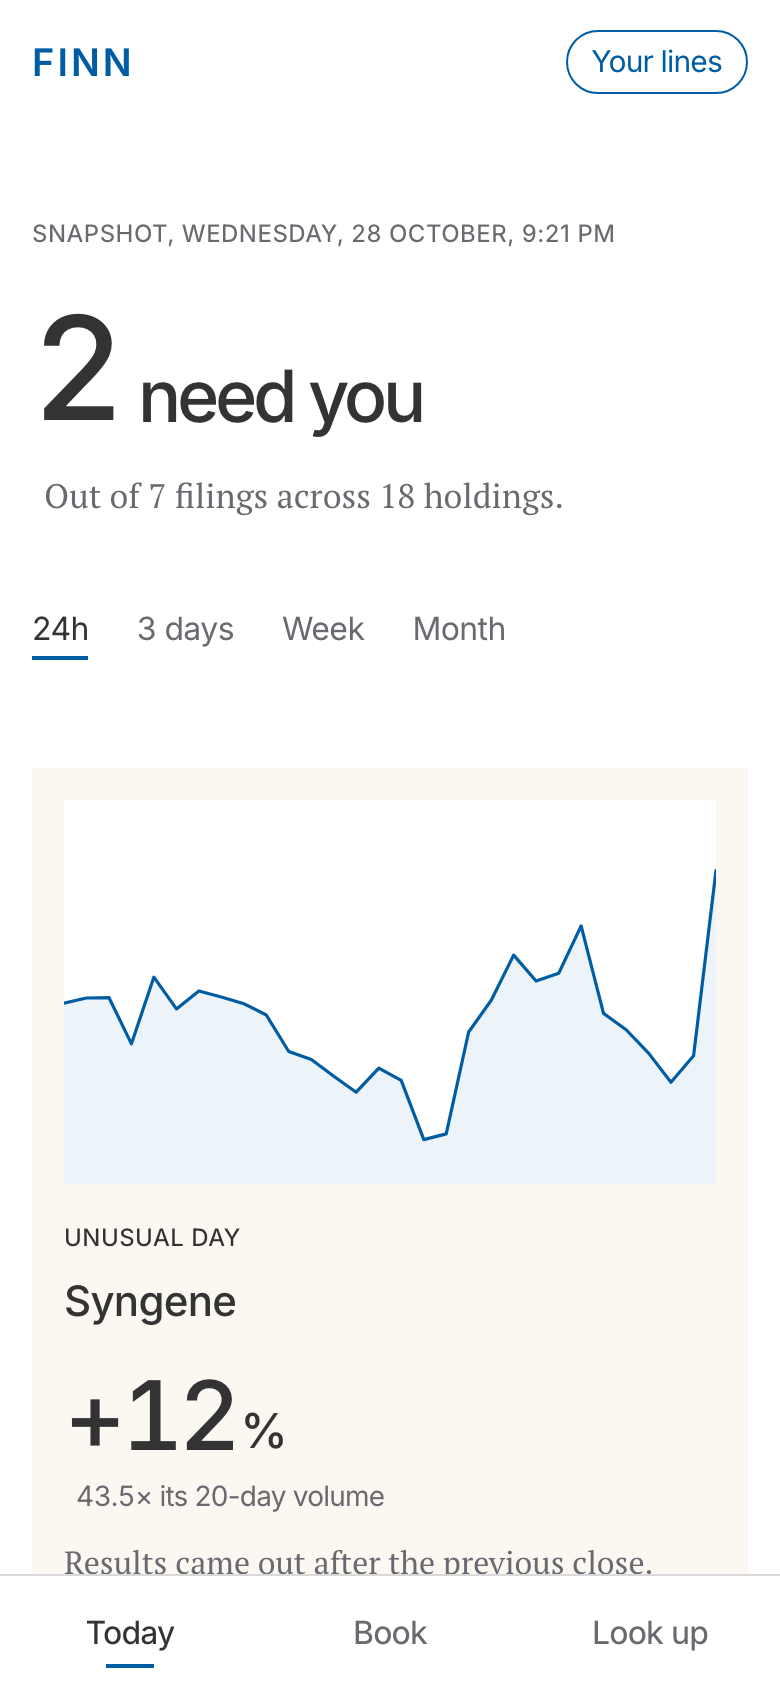
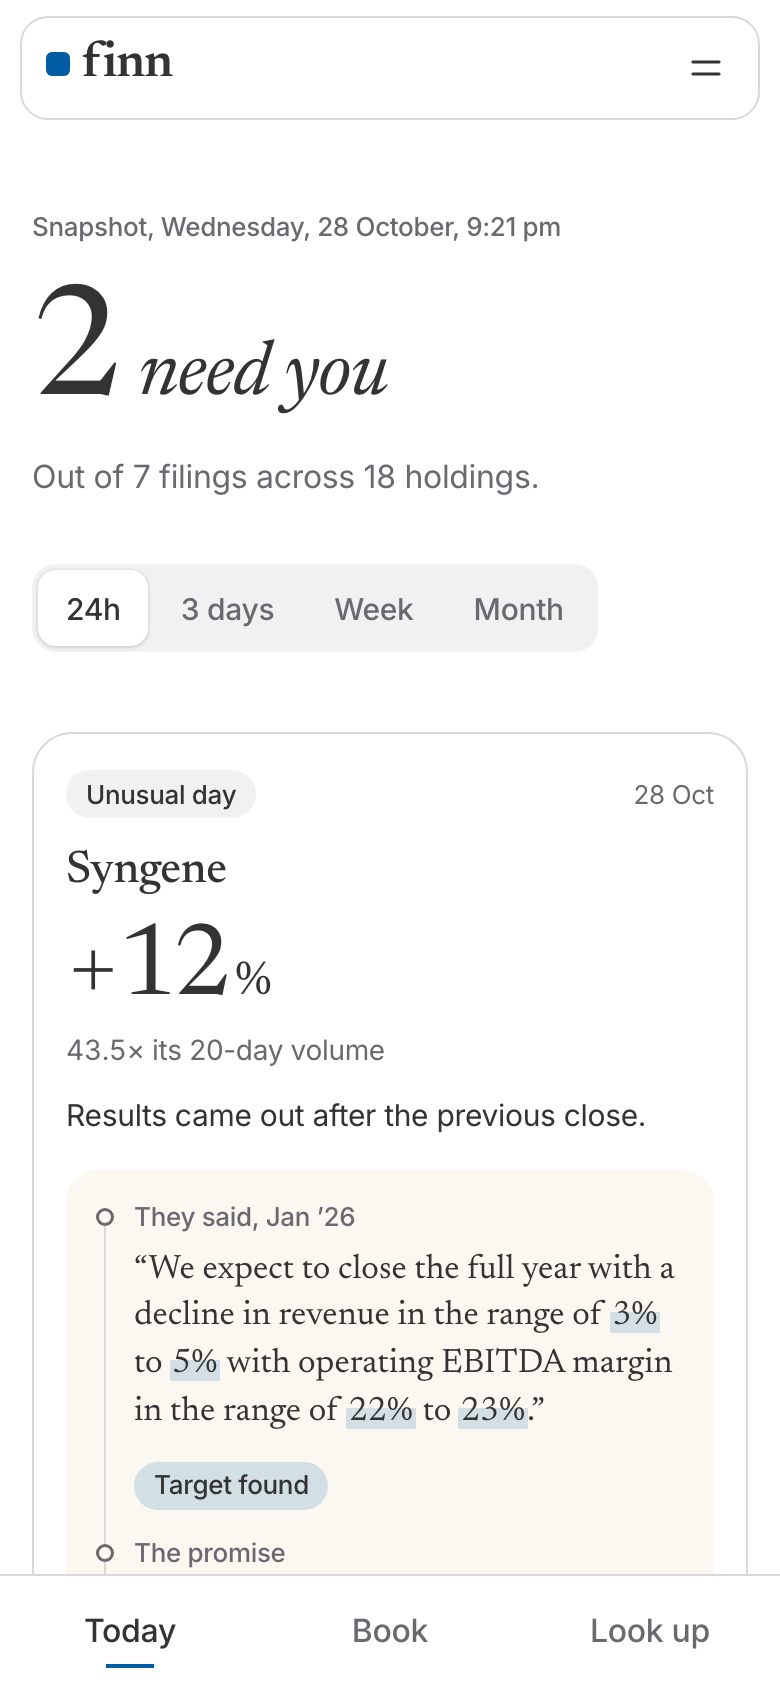
Update README for Folio design

diff --git a/DESIGN.md b/DESIGN.md
@@ -1,11 +1,11 @@
 # Folio, FINN's design system
 
-A folio is a numbered leaf of an account book, and in India it is also the number on an investor's holding. Folio is the page FINN keeps for each management team: what they said, and what happened. It is built on a base design's code and scales (tokens, spacing, the accordion, the sheet, the calm reveal), then made FINN's own: a book serif for what FINN reports, rounded cards and chips, a floating bar, index rows, and the before-and-after. None of any reference's branding, images or copy is used. Tokens live in `web/src/styles.css` as `--fo-*`.
+A folio is a numbered leaf of an account book, and in India it is also the number on an investor's holding. Folio is the page FINN keeps for each management team: what they said, and what happened. It is built on a base design's code and scales (tokens, spacing, the accordion, the sheet, the calm reveal), then made FINN's own around the before-and-after, with a book serif for what FINN reports and rounded cards to hold it. No reference's branding or copy is used. Tokens live in `web/src/styles.css` as `--fo-*`.
 
 ## Idea
 - **The before-and-after is the signature.** What management said, the promise FINN pulled out of it, and what the filings showed, read top to bottom in one block.
-- **One idea per block.** A card says one thing in one sentence; the rest waits behind a round control, a sheet or a row that opens in place.
-- **The serif reports, the sans speaks.** Names, figures, quotes and headlines are in the book serif. Sentences and controls are in a plain sans.
+- **One idea per block.** A card says one thing in one sentence; the rest waits behind a round control or a sheet.
+- **The serif reports, the sans speaks.** What FINN reports is in the book serif: names, figures, quotes. Sentences and controls are in a plain sans.
 - **Status is a chip.** Sentence case with a small mark, never caps.
 
 ## Colour
@@ -25,10 +25,10 @@ A folio is a numbered leaf of an account book, and in India it is also the numbe
 Moves are ink with a sign and a true minus; there is no green or red for up and down.
 
 ## Type
-- **Newsreader** (variable, optical sizes, lining and tabular figures, its own ₹) for headlines, company names, figures, quotes and index-row titles. Light: 400 for figures and headlines, 500 for card names and the promise line, 600 only in the mark.
-- **Inter** (variable) at 400 and 500, tracking −0.01em, for sentences, captions and every control.
+- **Newsreader**, a variable book serif with optical sizes and its own ₹, for what FINN reports: headlines, names, figures, quotes, index-row titles. Light: 400 for figures and headlines, 500 for card names and the promise line, 600 only in the mark.
+- **Inter** (variable) at 400 and 500, tracking −0.01em, for sentences and every control.
 - Page headline 34/108% (Look up's 46/102%), section head 28/112%, card name 23/118%, index-row title 22/120%, promise row 20/125%.
-- Figures: 76, 50, 42 and 32 px steps with the unit set at about half size on the baseline; stat figures 50/92%.
+- Figures step down from 76 px to 32 px, with the unit set at about half size on the baseline; stat figures 50/92%.
 - Body 16/145%, card sentences 15/145%, captions 13 to 14 px.
 - One italic phrase per screen at most, and only where it carries the meaning: "2 *need you*", "What did they *promise*?".
 - No caps labels anywhere. Headings wrap balanced, paragraphs without orphans; an amount keeps its unit on its line.
@@ -42,9 +42,9 @@ Spacing 4, 6, 8, 12, 16, 20, 24, 32, 40, 48, 60, 80; gutter 16; the column stops
 - **Menu.** A short sheet with two index rows: Alert lines (what's on, in a line) and How a promise is graded (what each verdict means).
 - **Folio card.** White, 20 px radius, a hairline. A chip and the time; the company in serif; a stat stack (serif figure, sans caption); one sentence; the before-and-after when the company made a promise on this topic; the small price strip; a foot row with a round control that turns to open the detail.
 - **Stat stack.** A serif figure, its word in serif under it, one plain sentence; set two to a row on the tinted block with a blue-tinted hairline between rows. Book's are tappable filters.
-- **Index row.** Serif title, a count or a record figure and an arrow on the right, one plain line under; hairlines between. It opens a sheet (Today's Worth a look and Routine filings) or opens in place, the arrow turning down (a company's numbers, for and against, sources).
+- **Index row.** A serif title with a count and an arrow on the right, one plain line under; hairlines between. It opens a sheet (Today's Worth a look and Routine filings) or opens in place with the arrow turning down (the folds on a company page).
 - **Promise row.** The promise in serif, a round control, then its status chip and when it was said; it opens on the before-and-after.
-- **The before-and-after.** A warm rounded block with three steps on a hairline: *They said* (the quote in serif, the target figure and the date marked where they stand, the speaker and page), chips naming what was found (Target found, Date found, only when the words are in the quote), *The promise* as one serif line, *What the filings showed* (the status chip, the verdict, the evidence). On a card it shows one sentence of the quote.
+- **The before-and-after.** A warm rounded block with three steps on a hairline: *They said* (the quote in serif with the target figure and the date marked where they stand; under it, the speaker and the page), chips naming what was found (Target found, Date found, only when the words are in the quote), *The promise* as one serif line, *What the filings showed* (the status chip, the verdict, the evidence). On a card it shows one sentence of the quote.
 - **Status chips.** Kept (tick, blue wash), Partly kept (dash), Missed (cross, red wash, red text), Gone quiet (ring), Not due (clock), Can't tell (?). Kinds of filing (Results, Unusual day, People) are neutral chips.
 - **Price strip.** The last 30 sessions in a 14 px rounded tinted inset, 80 units tall, with its change as a caption. Context, never the point.
 - **Controls.** Square-ish (8 px) buttons: one filled blue per screen at most, the rest outlined. The window is a segmented control. Look up's field is rounded with its square arrow button inside.

diff --git a/docs/WALKTHROUGH_SCRIPT.md b/docs/WALKTHROUGH_SCRIPT.md
@@ -6,7 +6,7 @@ About 2 minutes 20 seconds. Spoken lines are short. Don't read the screen; say w
 
 - iPhone, or Chrome devtools at 390×844 with device frame off. Light mode, notifications off, battery and clock hidden if you can.
 - Open https://finn-ledger.vercel.app once before recording so fonts and data are cached. Then add it to the home screen and open from there; it runs full screen.
-- In "Your lines", tap "Reset to defaults" before you start.
+- Open Menu → Alert lines and tap "Reset to defaults" before you start.
 - Before recording, open the Look up tab once and clear site data if it shows a "Recent" row you don't want.
 - Pick the live ticker in advance (ASTRAL works) and open it once off camera so the server has the transcripts cached. The recorded run then takes about 20 seconds instead of a minute.
 - Record the screen with a mic. Speak after each tap, not over it.
@@ -21,9 +21,9 @@ Tap the "Week" window and stay on it; the five cards below are in the week.
 *(silence, 2 seconds, while the count rolls)*
 
 **2. A results card (0:25–0:50)**
-Scroll to the Larsen & Toubro results card and tap "Read more".
+Scroll to the Larsen & Toubro results card. Tap the round control at its foot ("The detail") for the four numbers.
 > "When results land, I get the four numbers against last quarter and last year. Straight from the exchange's own data file."
-Point at the row under the sentence: "Group revenue growth 15% by FY26", MISSED.
+Point at the before-and-after on the card: the quote with 15% and FY26 marked as they sweep in, "Target found" and "Date found", the promise in one line, then Missed.
 > "And then the part I care about. What did they promise, and did this quarter deliver it."
 
 **3. A management change (0:50–1:05)**
@@ -32,10 +32,10 @@ Scroll to the Syngene management change card (its CFO resigns).
 *(silence, 2 seconds)*
 
 **4. The ledger (1:05–1:40)**
-Go Book → Larsen & Toubro (or tap the name on its card). Tapping that MISSED row on the card instead opens the ledger already at that promise.
-The page opens on its record in one line: "Larsen & Toubro. 1 of 3 promises kept, 1 partly."
+Go Book → Larsen & Toubro (or tap the name on its card). "The promise in full" on the card instead opens the ledger already at that promise.
+The page opens on the name and its record: "1 of 3 promises kept, 1 partly."
 > "This is the ledger. Every promise from their last calls that had a number and a date."
-Tap the first promise marked MISSED to open it.
+Tap the first promise, marked Missed. It opens on the before-and-after.
 > "Here's what they said, with the page. Here's what happened."
 Tap the page link under the quote; let the PDF open on that page for a second; go back.
 > "Every quote is checked against the PDF by code. If it's not on the page, it doesn't show."
@@ -46,10 +46,10 @@ Scroll to "Ask on the next call".
 Tap "Book".
 > "My whole portfolio, sorted by whose word is weakest."
 *(silence, 2 seconds on the tally)*
-Scroll once: the weakest holding leads with its price picture, the rest follow two to a row, each naming its weakest promise.
+Scroll once: the weakest holding leads as a card, the rest follow as rows, each with its record and its weakest promise behind a status chip.
 
 **6. Any company (1:55–2:15)**
-Tap "Look up", type ASTRAL, tap "Check their word".
+Tap "Look up", type ASTRAL, tap the blue arrow.
 > "It works on any NSE company. It reads the last five calls right now."
 Let the steps run; each call shows one promise it found as it finishes. When the ledger opens:
 > "Same ledger. About nine cents of model time, and nothing from news or brokers."

diff --git a/docs/COVERING_NOTE.md b/docs/COVERING_NOTE.md
@@ -25,6 +25,7 @@ Pull works on any NSE symbol. The portfolio and four other names are prebuilt so
 4. Only promises with a number or a concrete deliverable and a date get graded. "We remain confident" is counted, not judged.
 5. Size decides loudness. A tax demand or a deal under 0.5% of a year's revenue becomes a one-line note.
 6. Cheap model for reading, stronger model for judging. Flash-lite does the bulk work; flash does one grading call per company. A full company costs about $0.09 at list prices, and I've paid nothing, because it all fits in Gemini's free tier.
+7. FINN has its own design system, Folio, built around one moment: the before-and-after. On a results card and on every promise you open, you see what management said with the figure and the date marked, the promise FINN pulled out of it, and what the filings later showed. Names, figures and quotes are set in a book serif; a verdict is a plain word in a small chip.
 
 **What I left out on purpose**
 

diff --git a/README.md b/README.md
@@ -6,7 +6,7 @@ FINN is a phone app for a long-only investor that keeps management to its word. 
 
 <p>
 <img src="docs/img/today.png" width="240" alt="Today: what needs you across the portfolio">
-<img src="docs/img/company.png" width="240" alt="A company's promise ledger">
+<img src="docs/img/company.png" width="240" alt="A promise opened: what management said, the promise, what the filings showed">
 <img src="docs/img/book.png" width="240" alt="The book, weakest word first">
 </p>
 
